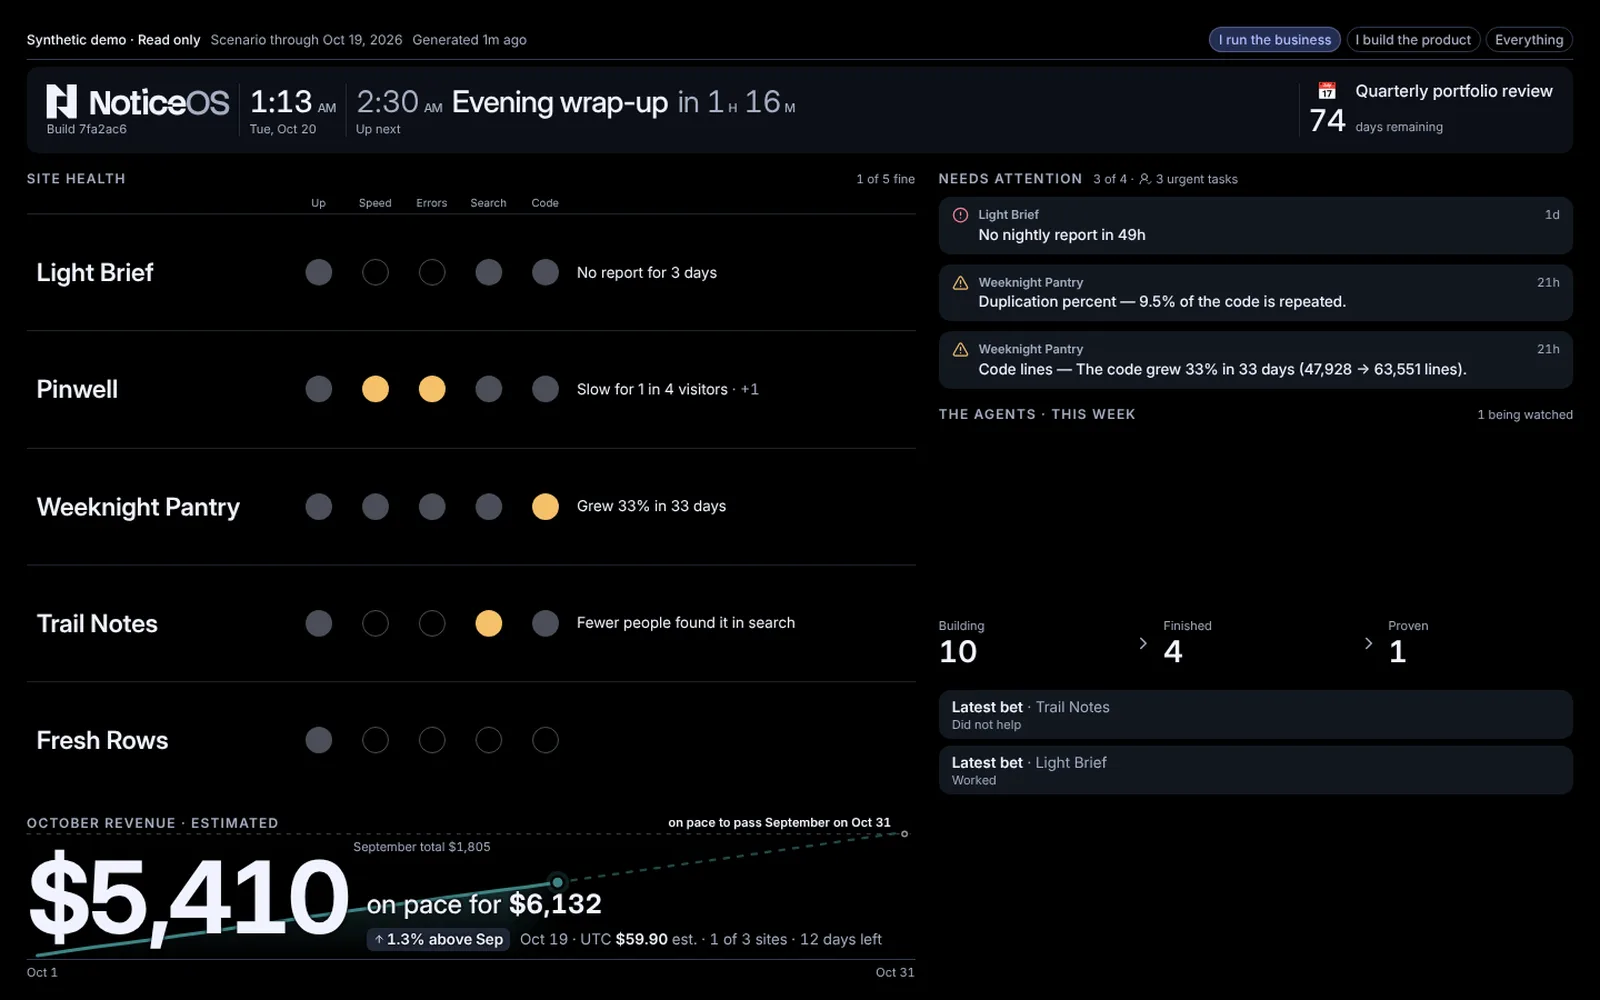
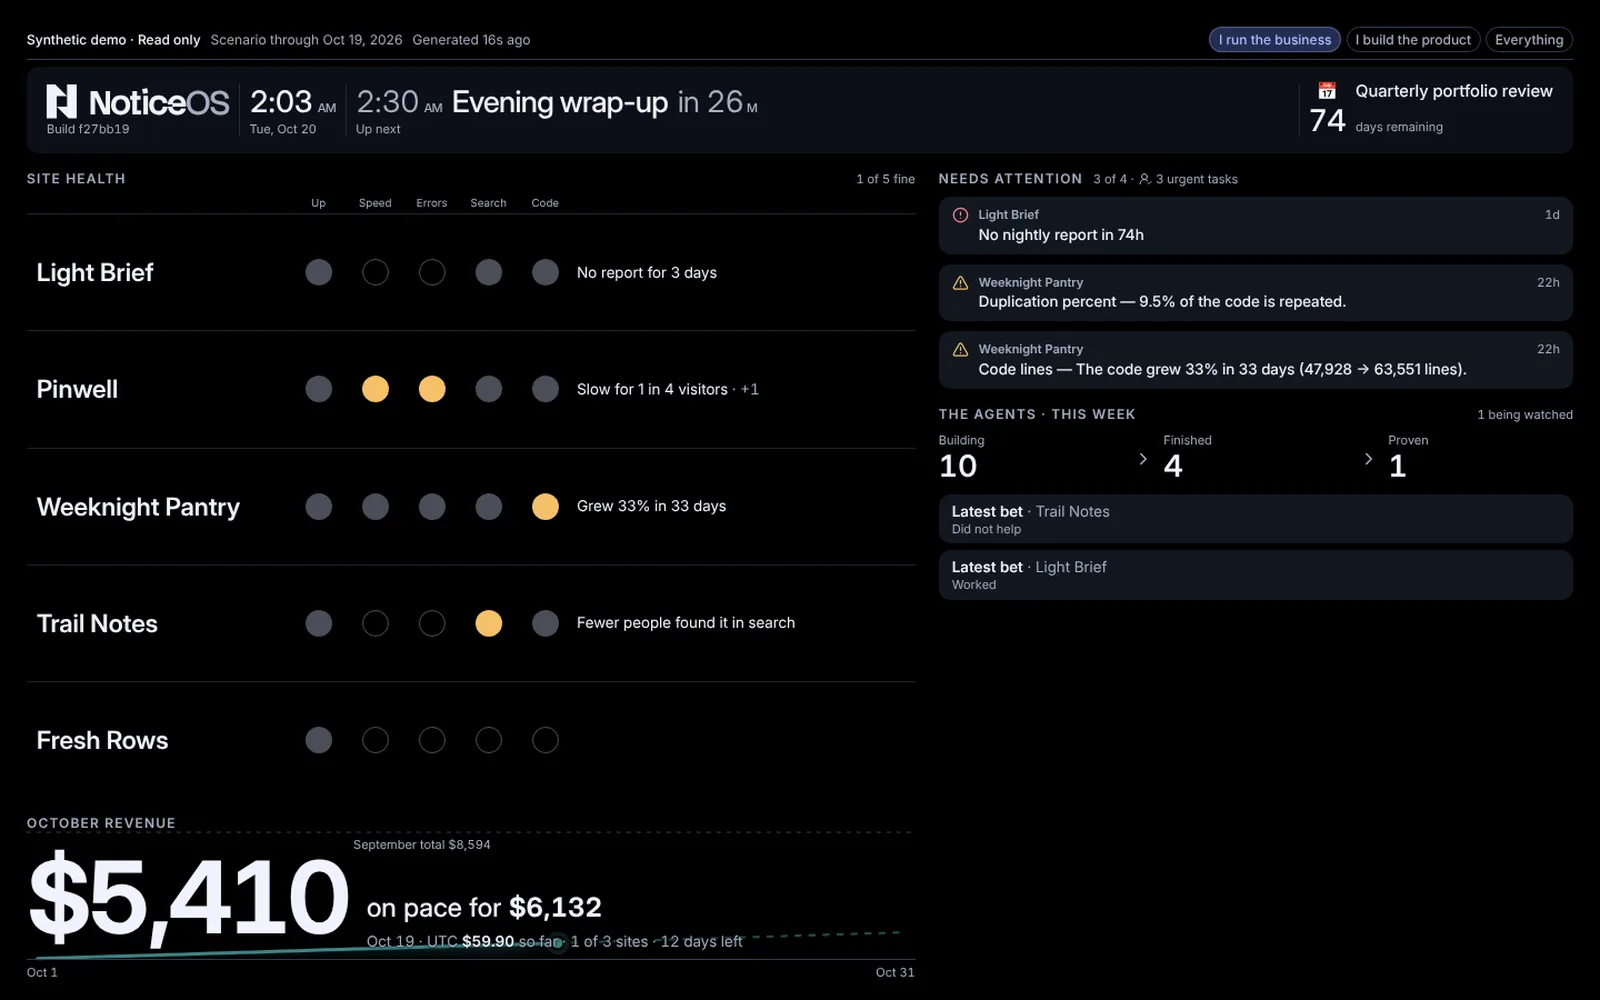
docs: refresh the view screenshots after the TV, Home and previous-month fixes
Claude-Session: https://claude.ai/code/session_01FbLm5upKoKTSmT6PL9C43X

diff --git a/docs/tower/home.md b/docs/tower/home.md
@@ -62,7 +62,7 @@ The view chosen on the first run, or later in [Settings → General → **Your v
 
 In **I run the business**, Home opens on **Site health**, with the month's money and **Decide** under it and **The agents · this week** further down:
 
-![The Home page in the synthetic demo, in the I run the business view: the summary starting 1 of 5 sites are fine, Site health with five dots and the problems in words for each of five sites, Revenue, October marked so far over The agents · this week, and Decide with 5 decisions waiting, Approve on each approval and Answer on each question.](../images/tower-home-business.webp)
+![The Home page in the synthetic demo, in the I run the business view: the summary starting 1 of 5 sites are fine, Site health with five dots and the problems in words for each of five sites, Revenue, October marked so far with Projected $6,132 and Sep total $8,594, The agents · this week with Building 10, Finished 4 and Proven to work 1, and Decide with 5 decisions waiting and Approve on the first two.](../images/tower-home-business.webp)
 
 In **I build the product**, Home opens on the month's money beside **Worth a look**, then **Where visitors come from · 4 weeks** beside **Problems**, with **Decide** and **Sites** further down:
 
